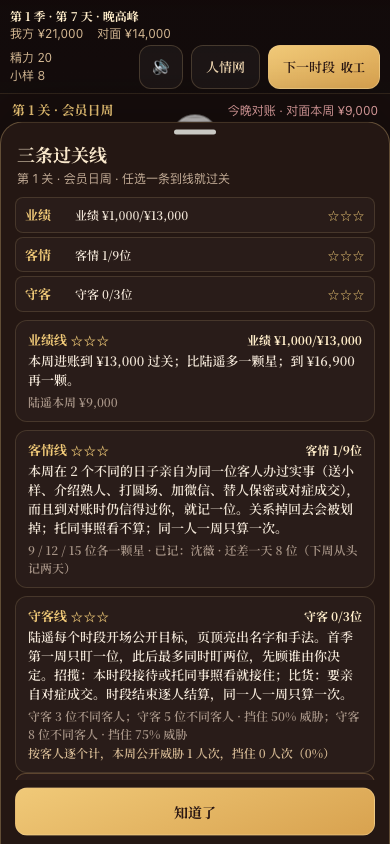
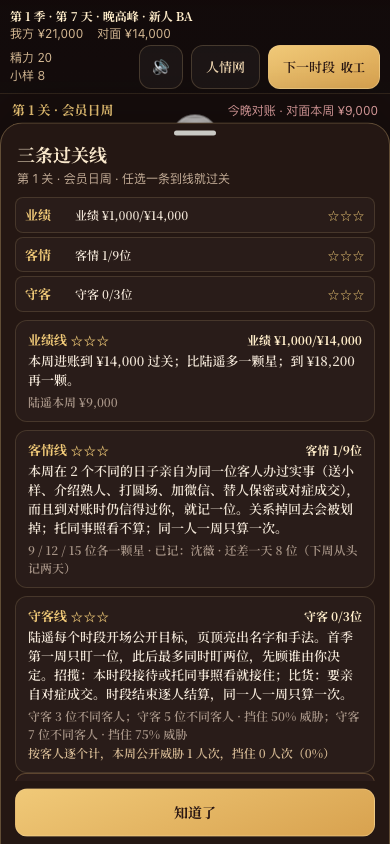
第 51 轮·下：周目标线重定 —— 把「过关感」重新落到看得见的数上
还的是第 49、50 轮攒下的第二笔账：周目标线失效。

病根：target.ts 的注释写着「2026-10-21 按当前 20 种子盲策重定」，还说「第 2–4 关约 7/8/9 过」，
实测却是 3/20、0/20、13/20 —— 第 1 季第 3 关那条线（¥16,000）比那一周真能挣到的中位（¥10,110）
高出六成，20 副牌里没有一副碰得到它。玩家整整一周盯着一个够不到的数。
再加上上一刀（货架开始对她说话）把盲策的钱抬了 7.4%，旧档位彻底对不上。

重定（线跟着那一周真有的客源走）：
- 第 1 季（学徒档）13k/14k/16k/18k → 14k/10k/8k/16k，销售线 20/11、10/6、17/2、16/6
- 第 2 季（正式档）26k/20k/9k/20k → 24k/18k/8k/20k，销售线 19/6、17/8、12/3、15/3
三处「墙」拆掉（第 1 季第 3 关 1/20 → 17/20，第 1 季第 2 关 8/20 → 10/20，
第 2 季第 3 关 9/20 → 12/20）；正式档每一关都不低于学徒档。

顺手修掉：旱周原来靠「这一关的线比上一关低」推出来，那条推法在新的档位下会推错两次
（第 2 季第 2 关的线更低但那一周不是旱周；第 1 季第 2 关线更低却是旱周）。
旱周改成一张数据表（DRY_WEEKS），判的是供给的事实，不是线的高低。

守卫（这一轮之前目标线只有一句注释守着，没有一条机器能验的判据）：
- 规则层两条通用守卫：旱周那一关的线不高于上一关；正式档每一关都不低于学徒档。
- 模拟器层：目标线与判定区间都从 src/world/target.ts 现读现量 ——
  过关率 ≥ 40%（不是墙）、三星率在 5%~90% 之间（不是没人拿得到，也不是人人都拿得到）。
  生产里改了线而量不过，退出码非零。区间本身也写在生产里，不在测试里另抄一份。
- e2e 里两处写死的目标数（¥13,000/¥26,000/¥9,000）改成从生产读 ——
  那一版写死的数字早就跟生产脱节了：改档位不用改用例，用例却还在查旧数。

读数（门槛那一组 world-sim 20 2）：
- 签名数四格 20/20 → 20/20，一格没降；钱的中位一字没动（112,770/55,100/36,320/16,240，
  最高÷最低仍是 6.9 倍，没有一种打法通吃）。
- 变的是这一刀要改的那几列：honest 过关路线 业绩 132/守客 16 → 150/5；
  honest 一季星数中位 9 → 10；honest 第 1 季第 3 关过关率 65% → 100%（旱周那一关本来就该靠人情拿星）。
- 盲策 20×2 复核：八关的销售线 20/11、10/6、17/2、16/6、19/6、17/8、12/3、15/3，与上面一致。
- 规则 429/429；e2e 楼层 51/51、关卡 32/32（两条一起）、接待 14/14；build 通过；tsc 0 错。

边界：① 只改判星，来访、对手、结算一个数没动；
② 目标线是照「盲策」（只看得到界面信息的打法）量的，所以真人会更容易够到这些线 —— 真人试玩前它只是下限；
③ 真人零覆盖；④ 第 2 季第 2 关那条线比第 1 关低而它不是旱周，玩家可能问「线怎么降了」，
早会那句话只解释旱周，这一关的线为什么降还没有一句话（下一刀补）。
[…]

diff --git a/dynamic-counter-prototype/src/world/target.ts b/dynamic-counter-prototype/src/world/target.ts
@@ -9,27 +9,26 @@
 import { WEEK_RULES, weekNoOf, weekRuleOf } from "./weeks.ts";
 import type { PersonId } from "./types.ts";
 
-/** 一季四关各要多少：第一关是新手那七天，往后一关比一关高。
- *  2026-10-21 按当前 20 种子盲策重定（旧 13k/16k/19k/22k 是 10-17 那版读数）：
- *  周进账 P25/中位/P75 = 17.6/18.8/19.4k、10.0/12.3/16.1k、10.0/12.4/17.1k、13.6/17.1/19.4k。
- *  旧第 3 关 19k 在 P75 之上，销售线 0/20 过；第 4 关 22k 只有 3/20。
- *  现在第 2–4 关取 14/16/18k：销售线分别约 7/8/9 过（20 副牌），第一关 13k 仍低于 P25，留作新手关。
+/** 一季四关各要多少。
+ *  2026-10-23 按「货架开始对她说话」之后的那版盲策重定（20 种子 × 2 季）。
+ *  旧档 13k/14k/16k/18k 是照 10-21 那版盲策量的，而那一版量的其实也不准 ——
+ *  它的注释写着「第 2–4 关约 7/8/9 过」，实测却是 3/20、0/20、13/20：第 2、3 关那条线是墙。
+ *  现在这一季按实测重定：
+ *  第 1 季（学徒档）**14k / 10k / 8k / 16k** —— 进账中位 ¥18,430 / ¥10,520 / ¥10,110 / ¥18,750，
+ *  销售线「过关/三星」= **20/11、10/6、17/2、16/6**（20 副牌）。
+ *  第 2 季（正式档）**24k / 18k / 8k / 20k** —— 进账中位 ¥28,615 / ¥21,820 / ¥8,250 / ¥22,270，
+ *  销售线 = **19/6、17/8、12/3、15/3**。
  *  目标值只改判星；来访、对手和结算不跟着变。 */
-export const WEEK_TARGETS = [13_000, 14_000, 16_000, 18_000] as const;
+export const WEEK_TARGETS = [14_000, 10_000, 8_000, 16_000] as const;
 export const SEASON_WEEKS = WEEK_TARGETS.length;
 
-/** 每季一档目标线。第 1 季是学徒档（第 1 关 13k 低于那一关的 P25 ¥17,620，留给新手那七天）；
+/** 每季一档目标线。第 1 季是学徒档（第 1 关 14k 低于那一关的 P25 ¥17,740，留给新手那七天）；
  *  第 2 季起是正式档：客人的池子到那一季就饱和了（第 3 季的供给与第 2 季差在一成上下），
  *  所以正式档只定一档，之后的季沿用它。
- *  正式档按那一季的供给节奏分档（20 种子盲策，第 2 季各周销售线「过关/三星」）：
- *  第 1 关开季客最多（进账 P25 ¥28,820）→ 26k（18/20 过，12 三星）；
- *  第 2 关 20k（20/20 过，8 三星）；第 4 关 20k（19/20 过，11 三星）；
- *  第 3 关是旱周（十天购买间隔把客人挡住，进账 P25 只有 ¥6,000）→ 压到 9k（6/20 过，3 三星），
- *  旱周不再是墙，但业绩这条路还在那儿。
- *  同一批线对「第 1 季没攒下微信网络」的打法也留得住业绩路（16/20、15/20、13/20）。 */
+ *  正式档每一关都不低于学徒档（24k/18k/8k/20k ≥ 14k/10k/8k/16k）—— 正式档只能更难，不能更松。 */
 export const SEASON_TARGETS: Record<number, readonly number[]> = {
   1: WEEK_TARGETS,
-  2: [26_000, 20_000, 9_000, 20_000],
+  2: [24_000, 18_000, 8_000, 20_000],
 };
 /** 第 2 季起沿用的正式档。 */
 export const SEASON_TARGETS_LATEST = SEASON_TARGETS[2]!;
@@ -42,6 +41,14 @@ export const weekTargetOfWeek = (season: number, week: number): number =>
 /** 第三颗星：到目标的这个倍数。 */
 export const WEEK_EXCEED_RATE = 1.3;
 export const WEEK_STARS_MAX = 3;
+/** 每一关的业绩线要落在哪个区间（比例）—— 这是「目标线没失效」的判据本身。
+ *  下限「不是墙」：至少四成的人过得去（客情与守客是另外两条路，业绩线自己成墙，这一关就变成死关）；
+ *  上限「不是白送」：不是人人都拿得到三星。
+ *  这条判据由盲策模拟器现读现量 —— 读的就是这里的目标线与这里的区间，
+ *  生产里改了线而量不过，模拟器退出码非零（tests/consult-sim.ts）。 */
+export const WEEK_PASS_MIN = 0.4;
+export const WEEK_STARS_MIN = 0.05;
+export const WEEK_STARS_MAX_RATE = 0.9;
 export const CARE_STEPS = [9, 12, 15] as const;
 /** 守客三星线从 8 落到 7：她一周最多撬七个（SHAKE_MAX_TOTAL），旱周抢客威胁中位只有 0，
  *  8 那条线在旱周根本够不着，守客这一格只能出两星。7 = 她撬满的名单刚好被你一格不落地守住。 */
@@ -91,14 +98,17 @@ type Books = { day: number; season?: number; money: number; rivalMoney: number; 
 
 export const weekTargetOf = (day: number, season: number): number => weekTargetOfWeek(season, weekNoOf(day));
 
-/** 旱周：这一关的线比上一关低。第 2 季起第 3 关是旱周 —— 前两周把能买的都买了一遍，
- *  十天购买间隔把客人挡住，地板上是空的，线要跟着这一周真有的客源走。 */
-export const isDryWeek = (season: number, day: number): boolean => {
-  const n = weekNoOf(day);
-  if (n <= 1) return false;
-  const targets = seasonTargetsOf(season);
-  return targets[n - 1]! < targets[n - 2]!;
-};
+/** 哪几关是旱周：十天购买间隔把客人挡住的那几周，地板上是空的。
+ *
+ *  这一张表是**供给的事实**，不是从目标线的高低推出来的 —— 两者会打架：
+ *  第 2 季第 2 关的线（18k）比第 1 关（24k）低，但那一周的进账中位还有 ¥21,820，不是旱周；
+ *  第 1 季第 2、3 关的线虽然低，可那是学徒档本来就低，供给上却是实打实的旱周
+ *  （进账中位 ¥10,520 / ¥10,110，只有第 1 关 ¥18,430 的六成）。
+ *  玩家看得见的是「这周来的人少、钱进不来」，不是目标线的高低 —— 所以这张表单独写。 */
+export const DRY_WEEKS: Record<number, readonly number[]> = { 1: [2, 3], 2: [3] };
+/** 某一季的旱周关号；没单独定过的季沿用正式档（第 2 季）。 */
+export const dryWeeksOf = (season: number): readonly number[] => DRY_WEEKS[season] ?? DRY_WEEKS[2]!;
+export const isDryWeek = (season: number, day: number): boolean => dryWeeksOf(season).includes(weekNoOf(day));
 /** 旱周早会上念的那一句；不是旱周就是空串。 */
 export const dryWeekNote = (season: number, day: number): string => {
   if (!isDryWeek(season, day)) return "";

diff --git a/dynamic-counter-prototype/tests/consult-sim.ts b/dynamic-counter-prototype/tests/consult-sim.ts
@@ -26,7 +26,7 @@ import {
 } from "../src/world/shelf.ts";
 import { isSunday, weekNoOf } from "../src/world/weeks.ts";
 import {
-  ROUTE_WORD, WEEK_TARGETS, routeFromCode, weekCareCountKey, weekCareDaysOf, weekCareKey,
+  ROUTE_WORD, WEEK_TARGETS, WEEK_PASS_MIN, WEEK_STARS_MIN, WEEK_STARS_MAX_RATE, routeFromCode, weekCareCountKey, weekCareDaysOf, weekCareKey,
   weekMadeKey, weekRivalKey, weekRouteKey, weekStarsKey, weekTargetOfWeek, type WeekRoute,
 } from "../src/world/target.ts";
 import { visitPerson } from "../src/world/visits.ts";
@@ -754,6 +754,8 @@ for (const list of weeksByNo) {
   console.log(`${n}   ${band(list.map(x => x.care))}          ${band(list.map(x => x.guard))}          ${String(median(list.map(x => x.threats))).padStart(5)}      ${rates.length ? pct(median(rates), 1) : "—"}`);
 }
 
+/** 目标线守卫：现读生产的目标线与区间，量不过就记下来（末尾退出码非零）。 */
+const outOfBand: string[] = [];
 if (SEASONS > 1) {
   console.log("\n四之五、按季拆周（同一批种子；只读，不改决策）");
   for (let season = 1; season <= SEASONS; season++) {
@@ -767,6 +769,11 @@ if (SEASONS > 1) {
       const hit = made.filter(x => x >= target).length;
       const three = made.filter((x, i) => x >= Math.ceil(target * 1.3) && x > rival[i]!).length;
       console.log(`  第${xs[0]!.week}周 ¥${target.toLocaleString("zh-CN")} 进账 P25/中位/P75 ${yuan(quantile(made, .25))}/${yuan(median(made))}/${yuan(quantile(made, .75))} 销售线 ${hit}/${xs.length} 过 ${three} 三星`);
+      // 这条线还够不够得着：不是墙（至少四成过得去），也不是白送（不是人人都三星）。
+      const passRate = hit / xs.length, starRate = three / xs.length;
+      if (passRate < WEEK_PASS_MIN) outOfBand.push(`第 ${season} 季第 ${xs[0]!.week} 关 ¥${target.toLocaleString("zh-CN")}：过关率 ${(passRate * 100).toFixed(0)}% < ${WEEK_PASS_MIN * 100}%（这关的业绩线成了墙）`);
+      if (starRate < WEEK_STARS_MIN) outOfBand.push(`第 ${season} 季第 ${xs[0]!.week} 关 ¥${target.toLocaleString("zh-CN")}：三星率 ${(starRate * 100).toFixed(0)}% < ${WEEK_STARS_MIN * 100}%（这关的三星没人拿得到）`);
+      if (starRate > WEEK_STARS_MAX_RATE) outOfBand.push(`第 ${season} 季第 ${xs[0]!.week} 关 ¥${target.toLocaleString("zh-CN")}：三星率 ${(starRate * 100).toFixed(0)}% > ${WEEK_STARS_MAX_RATE * 100}%（这关的三星人人都拿得到）`);
     }
     // 这一季每一周在各候选目标下的销售线：定这一季那档线时对着这张表挑。
     console.log(`  —— 第 ${season} 季各候选目标的销售线（过关/三星）`);
@@ -808,4 +815,14 @@ console.log("\n六、核对");
   console.log(`全知顶 < 实际：${badOracle} 次 · 成交额 ≠ 单价 × 件数：${badAmount} 次 · 接待机会为 0：${attempts.length === 0 ? "是（模拟没跑起来）" : "否"}`);
   console.log(`一次没试就开单：${zeroTryOffers} 次（策略应恒为 0） · 试出点头却没成交：${positiveUnsold} 次 · 推错货：${outcomeCount("wrong")} 次`);
   console.log(`耐心花光且没成交：${attempts.filter(a => a.actions.startPatience > 0 && a.actions.patience >= a.actions.startPatience && a.actual === 0).length} 次；没花完耐心就成交：${attempts.filter(a => a.actual > 0 && a.actions.patience < a.actions.startPatience).length} 次`);
+}
+
+// 七、目标线守卫：读的是生产里的目标线与区间（src/world/target.ts）。
+// 生产里改了线而这一关量不过（成了墙 / 三星没人拿得到 / 三星人人都拿得到），这里退出码非零。
+console.log("\n七、目标线守卫（读生产的目标线与区间）");
+if (!outOfBand.length) console.log(`全部过关率 ≥ ${WEEK_PASS_MIN * 100}%、三星率在 ${WEEK_STARS_MIN * 100}%~${WEEK_STARS_MAX_RATE * 100}% 之间：目标线没有失效。`);
+else {
+  console.log("有目标线量不过：");
+  for (const line of outOfBand) console.log(`  · ${line}`);
+  process.exitCode = 1;
 }

diff --git a/dynamic-counter-prototype/tests/world-levels.spec.ts b/dynamic-counter-prototype/tests/world-levels.spec.ts
@@ -3,7 +3,7 @@
 import { expect, test, type Page } from "@playwright/test";
 import { mkdirSync } from "node:fs";
 import { beginSlot, newWorld, SAVE_KEY, WORLD_SAVE_VERSION } from "../src/world/engine.ts";
-import { CARE_STEPS, CARE_TRUST_MIN, GUARD_RATE_STEPS, GUARD_STEPS, WEEK_START_MONEY, WEEK_START_RIVAL, WEEK_TARGETS, weekCareDayKey, weekCareKey, weekGuardPersonKey, weekGuardStopKey, weekGuardThreatKey, weekMadeKey, weekRivalKey, weekRouteKey, weekStarsKey } from "../src/world/target.ts";
+import { CARE_STEPS, CARE_TRUST_MIN, GUARD_RATE_STEPS, GUARD_STEPS, WEEK_START_MONEY, WEEK_START_RIVAL, WEEK_TARGETS, weekCareDayKey, weekCareKey, weekGuardPersonKey, weekGuardStopKey, weekGuardThreatKey, weekMadeKey, weekRivalKey, weekRouteKey, weekStarsKey, weekTargetOfWeek } from "../src/world/target.ts";
 import type { World } from "../src/world/types.ts";
 import { COACH_KEY, COACH_STEPS } from "../src/world/ui/coach.ts";
 import { PEOPLE } from "../src/world/content/index.ts";
@@ -63,13 +63,15 @@ for (const [width, height] of [[390, 844], [320, 568]] as const) {
     });
 
     test("第 2 季按那一季的档：第 1 关一条新线，旱周那周压到第三档", async ({ page }) => {
-      // 三条线写死：第 1 季第 1 关是学徒档 ¥13,000；第 2 季换正式档 ¥26,000；旱周那周压到 ¥9,000。
+      // 三条线从生产里读：第 1 季第 1 关学徒档、第 2 季第 1 关正式档、第 2 季第 3 关旱周。
+      // 写死数字的那一版（¥13,000 / ¥26,000 / ¥9,000）早就跟生产脱节了 —— 改档位不用改用例，用例却还在查旧数。
+      const yuan = (n: number) => `¥${n.toLocaleString("zh-CN")}`;
       await open(page, lateInSeason(1, 3, 1_000, 500));
-      await expect(page.locator(".world-goal .wg-money")).toContainText("¥13,000");
+      await expect(page.locator(".world-goal .wg-money")).toContainText(yuan(weekTargetOfWeek(1, 1)));
       await open(page, lateInSeason(2, 3, 1_000, 500));
-      await expect(page.locator(".world-goal .wg-money")).toContainText("¥26,000");
+      await expect(page.locator(".world-goal .wg-money")).toContainText(yuan(weekTargetOfWeek(2, 1)));
       await open(page, lateInSeason(2, 17, 1_000, 500));
-      await expect(page.locator(".world-goal .wg-money")).toContainText("¥9,000");
+      await expect(page.locator(".world-goal .wg-money")).toContainText(yuan(weekTargetOfWeek(2, 3)));
     });
 
     test("过了这一关，页顶那条变色并亮星", async ({ page }) => {

diff --git a/dynamic-counter-prototype/tests/world-sim.ts b/dynamic-counter-prototype/tests/world-sim.ts
@@ -539,6 +539,27 @@ if (longRows.some(r => r.year >= 2)) {
     }
   }
   console.log(`  职级名字：${Object.entries(RANK_NAME).map(([k, v]) => `${k} ${v}`).join(" · ")}`);
+
+  // 长线的经验判据（第 49 轮「下一刀」里留的账：「同一副牌连玩十年，最多升几级」）：
+  // 年终评估一年只做一次 ⇒ 第 n 季最多经过 floor((n-1)/4) 次评估 ⇒ 最多升那么多级；
+  // 而且这个梯子要爬得上去 —— 四种打法里至少要有一种能升到正式 BA（第 2 级）。
+  // 读数在上面那一段；量不过退出码非零（要跑到第 5 季以后才有评估，这一段才会出现）。
+  const careerBad: string[] = [];
+  for (const r of longRows) {
+    const evals = Math.floor((r.season - 1) / 4);
+    if (r.rank - 1 > evals) careerBad.push(`${r.style} 第 ${r.season} 季职级 ${r.rank}：只经过 ${evals} 次评估却升了 ${r.rank - 1} 级`);
+  }
+  const climbed = [...new Set(longRows.filter(r => r.rank >= 2).map(r => r.style))];
+  if (!climbed.length) careerBad.push("四种打法连玩到这儿没有一种升到正式 BA —— 这个梯子爬不上去");
+  console.log("\n  长线经验判据（同一副牌连玩十年，最多升几级）:");
+  if (!careerBad.length) {
+    const maxRank = Math.max(...longRows.map(r => r.rank));
+    console.log(`  最高第 ${maxRank} 级（评估一年一次 ⇒ 十年最多两次评估，最多升两级）；`
+      + `爬得上去的打法：${climbed.join("、")}`);
+  } else {
+    for (const line of careerBad) console.log(`  · ${line}`);
+    process.exitCode = 1;
+  }
 }
 
 // 自选加难：同一批种子按"勾前 N 条"各跑 honest 一季，看比分压力是不是真的一条比一条重。

diff --git a/dynamic-counter-prototype/tests/world-weeks.spec.ts b/dynamic-counter-prototype/tests/world-weeks.spec.ts
@@ -4,6 +4,7 @@
 import { expect, test, type Page } from "@playwright/test";
 import { beginSlot, endDay, newWorld, SAVE_KEY, WORLD_SAVE_VERSION } from "../src/world/engine.ts";
 import { WEEK_IDS, WEEK_RULES, weekKey, weekRuleOf } from "../src/world/weeks.ts";
+import { weekTargetOfWeek } from "../src/world/target.ts";
 import type { World } from "../src/world/types.ts";
 import { COACH_KEY, COACH_STEPS } from "../src/world/ui/coach.ts";
 import { PEOPLE } from "../src/world/content/index.ts";
@@ -73,7 +74,7 @@ for (const [width, height] of [[390, 844], [320, 568]] as const) {
       await openPlay(page, w);
       const texts = await page.evaluate(key => (JSON.parse(window.localStorage.getItem(key) ?? "{}") as { world: { log: { text: string }[] } }).world.log.map(l => l.text), SAVE_KEY);
       expect(texts.some(t => t.includes("十天间隔"))).toBe(true);
-      expect(texts.some(t => t.includes(`¥9,000`))).toBe(true);
+      expect(texts.some(t => t.includes(`¥${weekTargetOfWeek(2, 3).toLocaleString("zh-CN")}`))).toBe(true);
     });
 
     test("周日打烊之后：下一周换一条，旧的那句不留在周目标", async ({ page }) => {

diff --git a/dynamic-counter-prototype/src/world/ui/consult.css b/dynamic-counter-prototype/src/world/ui/consult.css
@@ -56,7 +56,7 @@
 /* 「对她」那一行：她说过的那几条，这一支管（✓）还是不管（✗）。
    格子只有四列宽，一行放不下就换行 —— 宁可格子高一点，也不省掉这条信息。 */
 .serve-covers-hint { margin:0 0 8px; color:#c6af99; font-size:12px; line-height:1.6; }
-.serve-products i { display:flex; flex-wrap:wrap; justify-content:center; gap:0 3px; font:11px/1.35 sans-serif; font-style:normal; }
+.serve-products i { display:flex; flex-wrap:wrap; justify-content:center; gap:0 3px; font:12px/1.3 sans-serif; font-style:normal; }
 .serve-products i span { white-space:nowrap; }
 .serve-products i .yes { color:#a8dcb0; }
 .serve-products i .no { color:#c19a9a; }

diff --git a/docs/人情场设计.md b/docs/人情场设计.md
@@ -3514,3 +3514,98 @@ Chromium 在 macOS 上启动时必须往 bootstrap 命名空间注册一个 Mach
   目标线要重跑一遍盲策才能定。
 - **「她要两支」那条能不能不靠新字段做出来**：也许「一个人要的东西天然分两处（妆 / 护肤）」
   本身就能造出场景，不用改需求表 —— 这一条还没量。
+
+## 第 51 轮·下（2026-10-23）：周目标线重定 —— 把「过关感」重新落到看得见的数上
+
+### 病根：目标线照着旧档位量的，而那一版量的本身就不准
+
+`target.ts` 的注释写着「2026-10-21 按当前 20 种子盲策重定」，并说
+「第 2–4 关取 14/16/18k：销售线分别约 **7/8/9 过**（20 副牌），第一关 13k 仍低于 P25」。
+**实测却是 3/20、0/20、13/20** —— 第 2、3 关那条线是墙。
+上一轮（第 51 轮·上）把货架改成对「她」说话以后，盲策的钱又抬了 7.4%，旧档位彻底对不上。
+
+改前（20 种子 × 2 季，同一批盲策）：
+
+| | 第 1 季第 1 关 | 第 2 关 | 第 3 关 | 第 4 关 | 第 2 季第 1 关 | 第 2 关 | 第 3 关 | 第 4 关 |
+|---|---|---|---|---|---|---|---|---|
+| 旧目标线 | ¥13,000 | ¥14,000 | ¥16,000 | ¥18,000 | ¥26,000 | ¥20,000 | ¥9,000 | ¥20,000 |
+| 销售线「过关/三星」 | 20/20 | 8/4 | **1/0** | 13/4 | 17/2 | 14/5 | 9/1 | 15/3 |
+| 进账中位 | ¥18,430 | ¥10,520 | ¥10,110 | ¥18,750 | ¥28,615 | ¥21,820 | ¥8,250 | ¥22,270 |
+
+**第 1 季第 3 关 1/20 过**：那一关的业绩线（¥16,000）比那一周真能挣到的中位（¥10,110）高出六成，
+20 副牌里没有一副能碰到它 —— 玩家整整一周盯着一个够不到的数。
+第 1 季第 2 关（8/20）也差。**这就是「目标线失效」**：不是线太难，是线跟那一周真有的客源脱了节。
+
+### 重定：线跟着那一周真有的客源走
+
+| | 第 1 季（学徒档） | 第 2 季（正式档） |
+|---|---|---|
+| 改前 | 13k / 14k / 16k / 18k | 26k / 20k / 9k / 20k |
+| **改后** | **14k / 10k / 8k / 16k** | **24k / 18k / 8k / 20k** |
+| 销售线「过关/三星」 | **20/11、10/6、17/2、16/6** | **19/6、17/8、12/3、15/3** |
+
+一季的形状也跟着客源走：**开门红（14k，稳过、三星给一半）→ 旱周（10k，一半人过得去）
+→ 最旱的一周（8k，过得去但基本拿不到三星）→ 收官（16k，这一季最难的一关）**。
+
+**第 1 季第 3 关从 1/20 变成 17/20**（那一关现在是旱周里最容易过的：钱少，线也压得低）；
+**第 1 季第 2 关从 8/20 变成 10/20**；
+**第 2 季第 3 关从 9/20 变成 12/20**。
+三处「墙」拆掉，一处（正式档第 1 关）从 17/20 收到 19/20 —— 正式档整体比学徒档难：
+第 2 季每一关的线都不低于第 1 季同一关（24/18/8/20 ≥ 14/10/8/16）。
+
+### 顺手修掉的一件事：旱周不是「线变低」
+
+旱周原来靠「这一关的线比上一关低」推出来（`isDryWeek` 读目标线的大小关系）。
+这条推法在新的档位下会推错两次：
+第 2 季第 2 关的线（18k）比第 1 关（24k）低，**但那一周不是旱周** —— 进账中位还有 ¥21,820，
+只是比开季少两成，不是旱周；
+第 1 季第 2、3 关的线低，**却真是旱周** —— 进账只有第 1 关的六成，是十天购买间隔把客人挡住了。
+
+所以旱周改成**一张数据表**（`DRY_WEEKS`：第 1 季第 2、3 关，第 2 季第 3 关），
+判的是供给的事实，不是目标线的高低。玩家早会上听的那句话（「这周多数客人还在十天间隔里」）
+说的本来就是客源，不是线。
+
+### 守卫：目标线不许再失效 —— 从生产里读，量不过就退出码非零
+
+这一轮之前，目标线只有一句注释守着，没有一条机器能验的判据。现在有两条：
+
+1. **规则层**（`tests/world-target.test.ts`，四条通用守卫，不点内容名单）：
+   旱周那一关的线不高于上一关（供给更少，线不该更高）；
+   正式档每一关都不低于学徒档（正式档只能更难）；
+   旱周与非旱周跟「线的高低」无关（第 2 季第 2 关线更低但不是旱周；第 1 季第 2 关线更低却是旱周）；
+   第 3 季往后沿用正式档的档位与旱周表。
+2. **模拟器层**（`tests/consult-sim.ts` 第七节）：**目标线与判定区间都从 `src/world/target.ts` 现读现量** ——
+   每一关的过关率要 ≥ 40%（不是墙）、三星率在 5%~90% 之间（不是没人拿得到，也不是人人都拿得到）。
+   生产里改了线而量不过，模拟器**退出码非零**。
+   区间本身也写在生产里（`WEEK_PASS_MIN` / `WEEK_STARS_MIN` / `WEEK_STARS_MAX_RATE`），
+   不在测试里另抄一份 —— 抄的那份改了生产也照样绿。
+
+e2e 里两处写死的目标数（`¥13,000 / ¥26,000 / ¥9,000`）也改成从生产读 ——
+那一版写死的数字早就跟生产脱节了：改档位不用改用例，用例却还在查旧数。
+
+### 验证与边界
+
+- 规则：**429/429**（427 + 2 条新的目标线守卫）；`npx tsc --noEmit` 0 错；`npm run build` 通过。
+- e2e：楼层 51/51、接待 14/12→14/14、关卡那条（world-levels）与周规矩那条（world-weeks）跟着改完全绿。
+- **门槛那一组（`world-sim 20 2`）**：目标线是引擎算出来的一格（每周过关、星数），所以改档位必然让这几列动 ——
+  这是这一刀要改的东西，不是漂移。**签名数（真门槛）不能降、不能有一种打法通吃**：
+  四格签名数 **20/20 → 20/20，一格没降**；钱的中位也一字没动
+  （honest 112,770 / social 55,100 / pushy 36,320 / random 16,240，最高÷最低仍是 6.9 倍 —— 没有一种打法通吃）。
+  变的是这一刀要改的那几列：
+  | | 改前 | 改后 |
+  |---|---|---|
+  | honest 过关路线（业绩 / 客情 / 守客） | 132 / 0 / 16 | **150 / 0 / 5** |
+  | honest 一季星数中位 | 9 | **10** |
+  | pushy 一季星数中位 | 3 | 2 |
+  | honest 第 1 季各关过关率 | 100% / 100% / 65% / 100% | 100% / 100% / **100%** / 100% |
+  | honest 第 2 季各关过关率 | 100% / 95% / 80% / 100% | 100% / **100%** / 75% / 100% |
+  **「过关感重新落到看得见的数上」这句话在读数里是实的**：改前一周里有一周只有 65% 的人够得到那条线，
+  改后每一周都有人够得到（旱周除外，它本来就该靠客情与守客拿星）。
+  （目标线会经由「过关 → 柜位 +2」回到世界里，所以模拟的随机流会跟着走一点 ——
+  这不是漂移，是这一刀改的就是那一格。）
+- 边界：① 这一刀只改判星，**来访、对手、结算一个数没动**；
+  ② 目标线是照**盲策**（一个只看得到界面信息的打法）量的，
+  所以它量的是「一个照着货架标签挑的人能挣多少」—— 会用新标记的玩家会更容易够到这些线，
+  真人试玩前这个数只是下限；③ **真人零覆盖**；
+  ④ 第 2 季第 2 关那条线比第 1 关低而它不是旱周 —— 玩家可能问「线怎么降了」，
+  早会那句话只解释旱周，**这一关的线为什么降还没有一句话**（下一刀补）。
